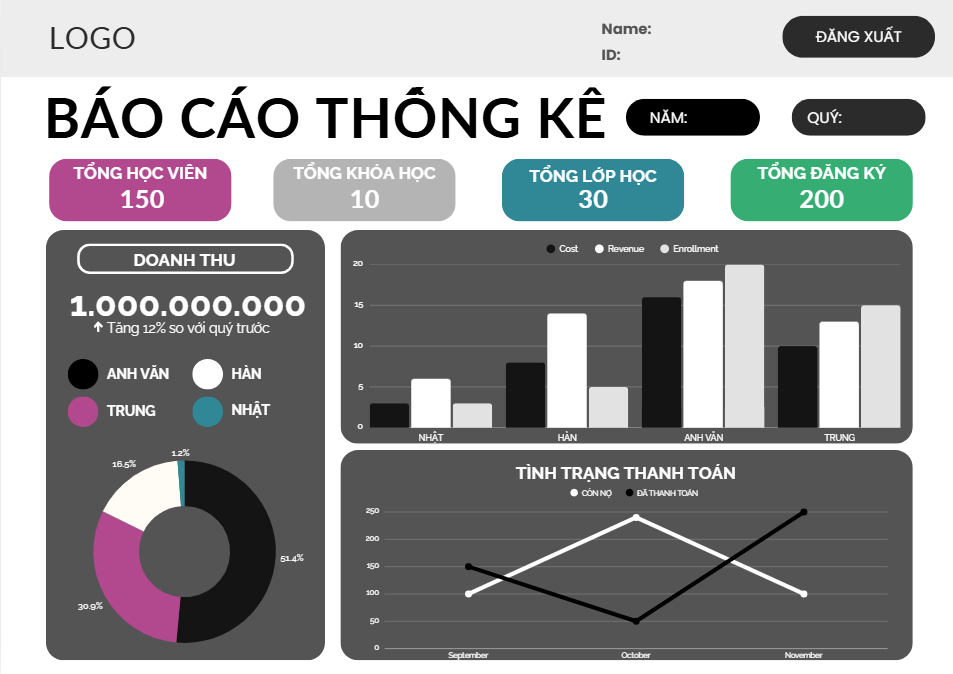
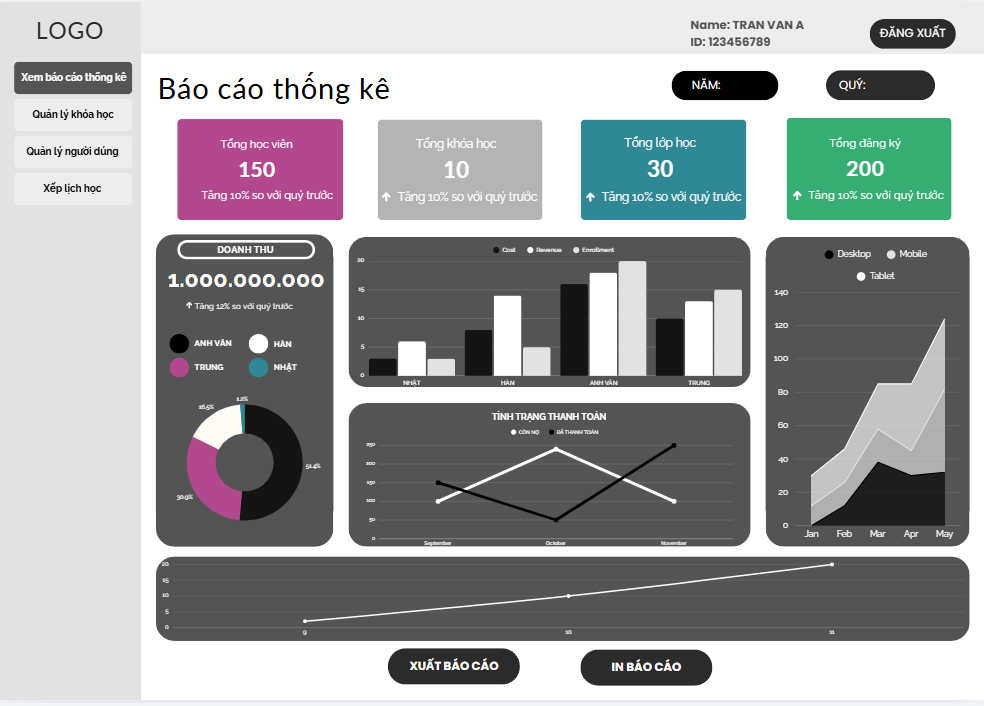
update docs/requirements.md: fix UI bao cao thong ke

diff --git a/docs/requirements.md b/docs/requirements.md
@@ -625,7 +625,7 @@ BR-30: Hệ thống cung cấp báo cáo thống kê quý, năm theo:
 ## 9.3 UI Xem Lịch Học - Thời Khóa Biểu
 ![UI-xem-lich-hoc-thoi-khoa-bieu](screenshots/xem-khoa-hoc-va-thoi-khoa-bieu.png)
 
-## 9.4 UI Báo Cáo
+## 9.4 UI Báo Cáo Thống Kê
 ![UI-bao-cao-thong-ke](screenshots/bao-cao-thong-ke.png)
 
 ## 9.5 UI Xem Lịch Dạy
@@ -637,11 +637,6 @@ BR-30: Hệ thống cung cấp báo cáo thống kê quý, năm theo:
 ## 9.7 UI Biên Lai
 ![UI-bien-lai](screenshots/bien-lai.png)
 
-## 9.6 UI Điều Hướng
-### Admin
-![UI-dieu-huong-admin](screenshots/dieu-huong-admin.png)
-### Teacher
-![UI-dieu-huong-teacher](screenshots/dieu-huong-teacher.png)
 
 
 
